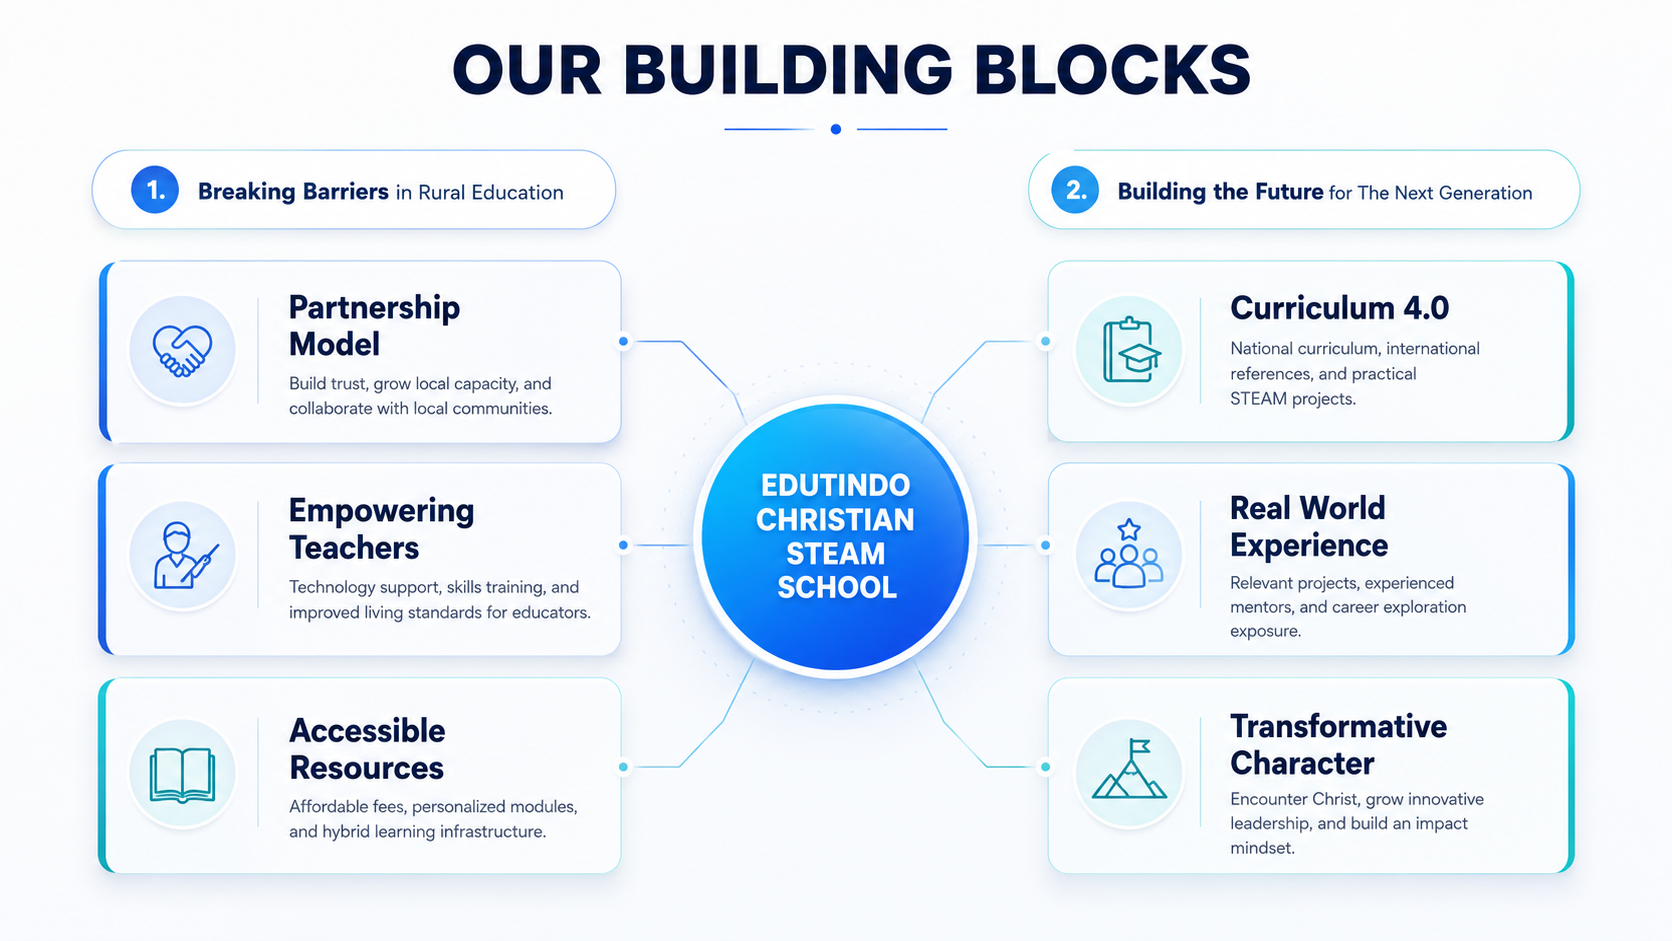
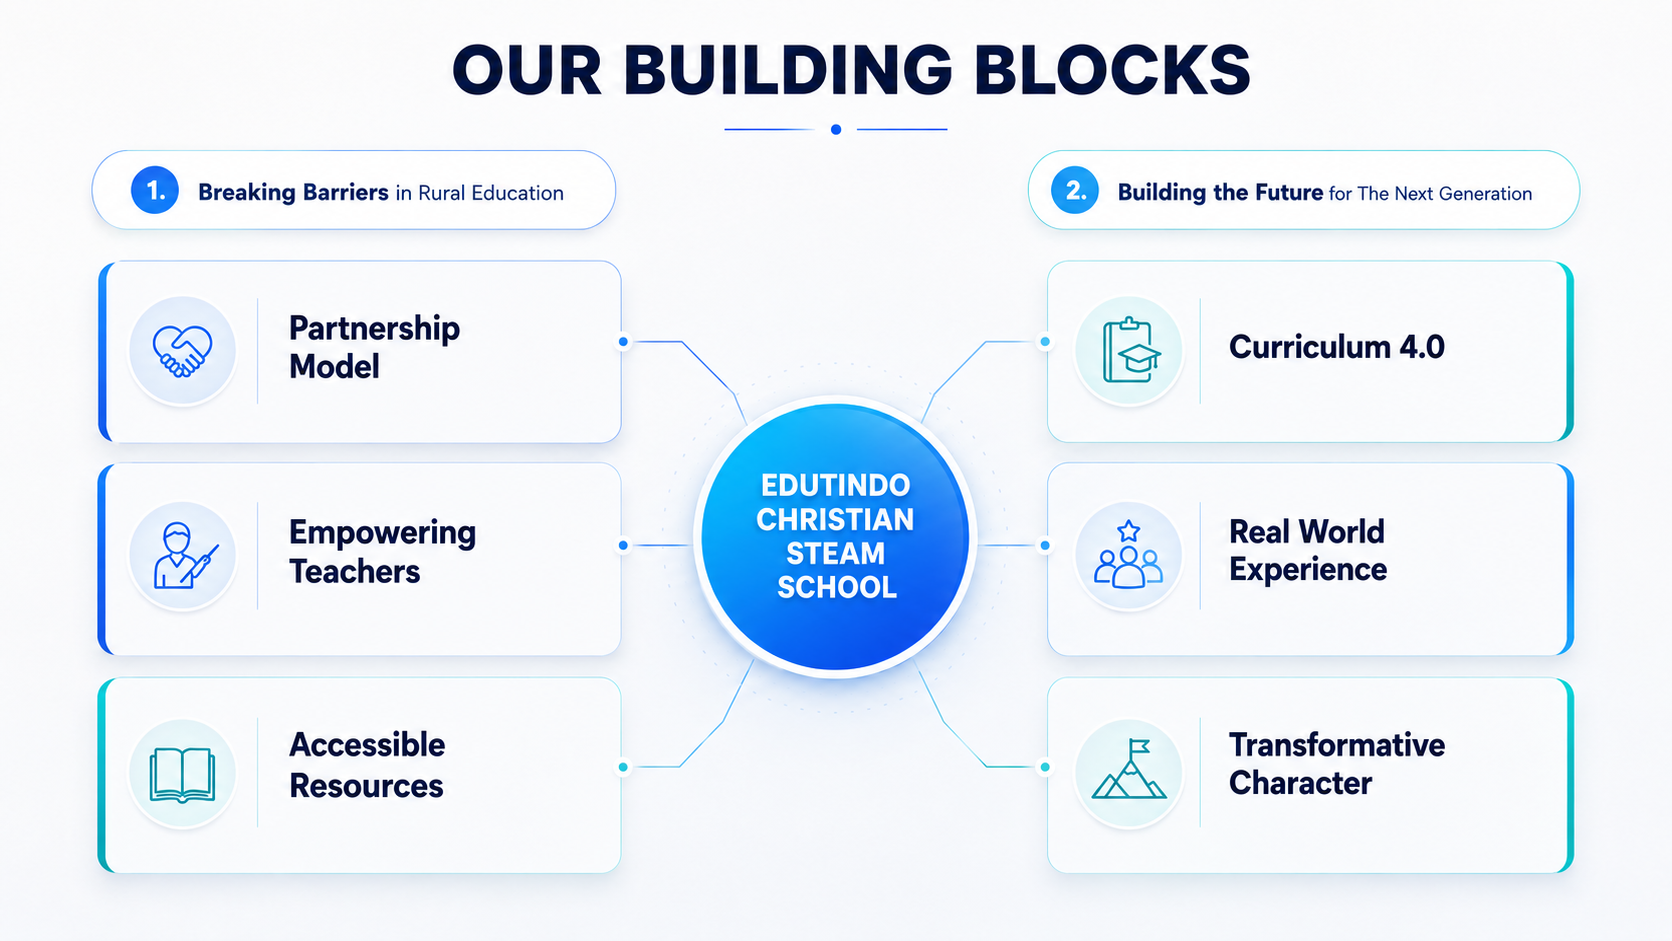
Update

diff --git a/components/layout/footer.tsx b/components/layout/footer.tsx
@@ -1,6 +1,16 @@
+"use client"
+
 import Link from "next/link"
+import { usePathname } from "next/navigation"
+import { isCurriculumLessonFocusRoute } from "@/lib/focus-mode-routes"
 
 export function Footer() {
+    const pathname = usePathname()
+
+    if (isCurriculumLessonFocusRoute(pathname)) {
+        return null
+    }
+
     return (
         <footer className="bg-[#0b1d3a] text-white">
             <div className="container-custom py-12 md:py-14">

diff --git a/lib/focus-mode-routes.ts b/lib/focus-mode-routes.ts
@@ -1,0 +1,10 @@
+const curriculumLessonFocusRoutePattern =
+  /^\/(student|teacher|principal|admin)\/materials\/curriculum\/[^/]+\/[^/]+\/[^/]+\/[^/]+\/[^/]+$/;
+
+export function isCurriculumLessonFocusRoute(pathname: string | null | undefined) {
+  if (!pathname) {
+    return false;
+  }
+
+  return curriculumLessonFocusRoutePattern.test(pathname);
+}

diff --git a/components/layout/navbar.tsx b/components/layout/navbar.tsx
@@ -5,6 +5,7 @@ import Link from "next/link"
 import Image from "next/image"
 import { usePathname } from "next/navigation"
 import { Menu, X, ArrowLeft } from "lucide-react"
+import { isCurriculumLessonFocusRoute } from "@/lib/focus-mode-routes"
 import { Button } from "../ui/button"
 import { cn } from "../ui/button"
 import { ModeToggle } from "../mode-toggle"
@@ -36,7 +37,8 @@ export function Navbar() {
     const [isAuthenticated, setIsAuthenticated] = React.useState(false)
     const [authResolved, setAuthResolved] = React.useState(false)
     const pathname = usePathname()
-    const isFocusedScienceRoute = /^\/(student|teacher|principal|admin)\/materials\/year-7\/science\/[^/]+(\/[^/]+)?$/.test(pathname)
+    const isLegacyFocusedScienceRoute = /^\/(student|teacher|principal|admin)\/materials\/year-7\/science\/[^/]+(\/[^/]+)?$/.test(pathname)
+    const isFocusedScienceRoute = isLegacyFocusedScienceRoute || isCurriculumLessonFocusRoute(pathname)
     const isPortalRoute = portalRoutePrefixes.some((prefix) => pathname.startsWith(prefix))
     const isAdminRoute = pathname.startsWith("/admin")
     const showAdminBackButton = isAdminRoute && pathname !== "/admin" && isAdminUser